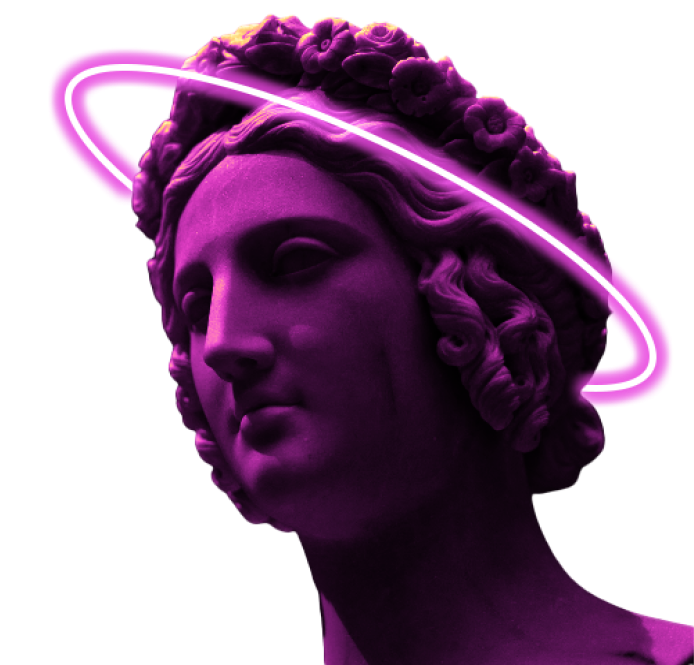
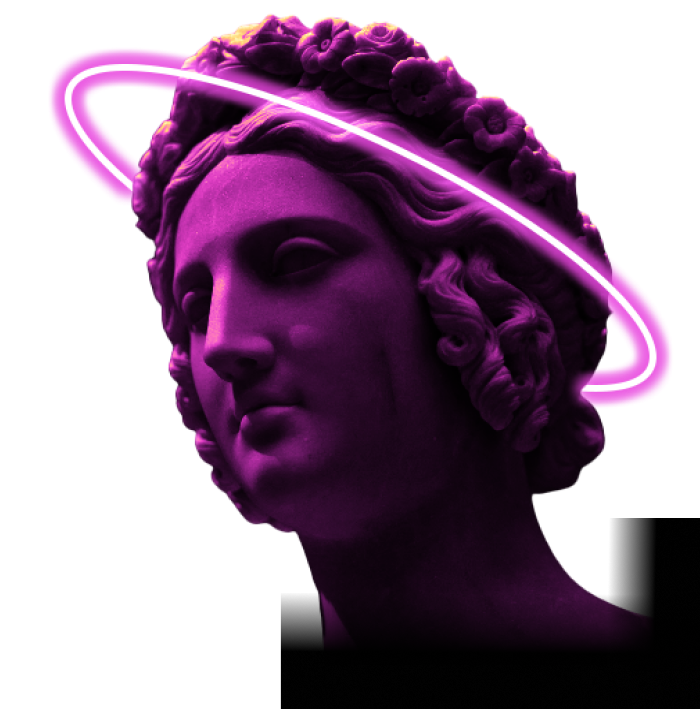
feat: add Hero from landing page

diff --git a/src/styles/landingpage.module.scss b/src/styles/landingpage.module.scss
@@ -1,8 +1,41 @@
 .landing-page {
-  background-color: #000;
+  background: linear-gradient(90deg, #200A1B 0%, #000000 50%);
 }
 
 .container {
   max-width: 1216px;
   margin: 0 auto;
+}
+
+.hero {
+  color: #fff;
+  height: 90vh;
+
+  display: grid;
+  grid-template-columns: 1fr 1fr;
+  justify-content: space-between;
+  align-items: stretch;
+  h1 {
+    font-size: 104px;
+    font-weight: 400;
+    line-height: 94px;
+  }
+  h3 {
+    font-size: 31px;
+    font-weight: 300;
+    margin: 32px 0;
+    max-width: 510px;
+  }
+  img {
+    max-height: 560px;
+  }
+  button {
+    background: linear-gradient(264.12deg, #020887 -197.65%, #26DBDB 272.42%);
+    border: none;
+    border-radius: 6px;
+    color: #fff;
+
+    height: 48px;
+    padding: 8px 32px;
+  }
 }

diff --git a/src/pages/index.tsx b/src/pages/index.tsx
@@ -14,6 +14,14 @@ const Home = () => (
     </Head>
     <main className={styles.container}>
       <Header />
+      <section className={styles.hero}>
+        <div>
+          <h1>Kassandra DAO</h1>
+          <h3>The decentralized autonomous organization that governs tokenized data-driven investment funds.</h3>
+          <button type="button">View The $HEIM Index</button>
+        </div>
+        <img src="assets/kassandra.png" alt="" />
+      </section>
     </main>
   </div>
   )

diff --git a/src/styles/globals.scss b/src/styles/globals.scss
@@ -41,6 +41,10 @@ body {
   -webkit-font-smoothing: antialiased !important;
 }
 
+img {
+  max-width: 100%;
+}
+
 ul,
 ol {
   list-style: none;
